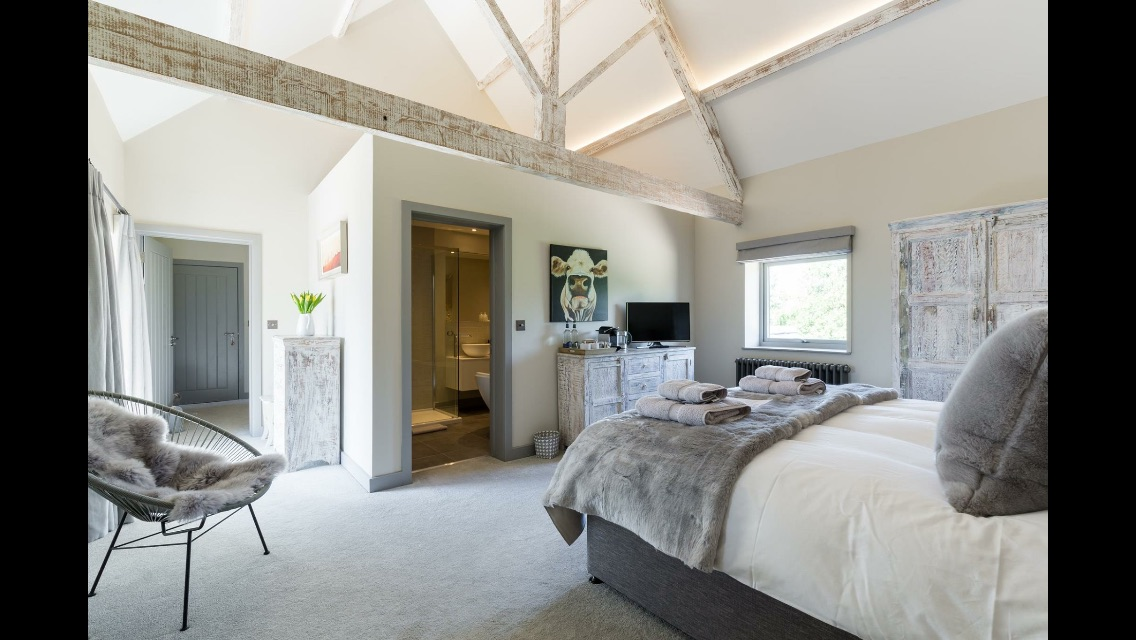
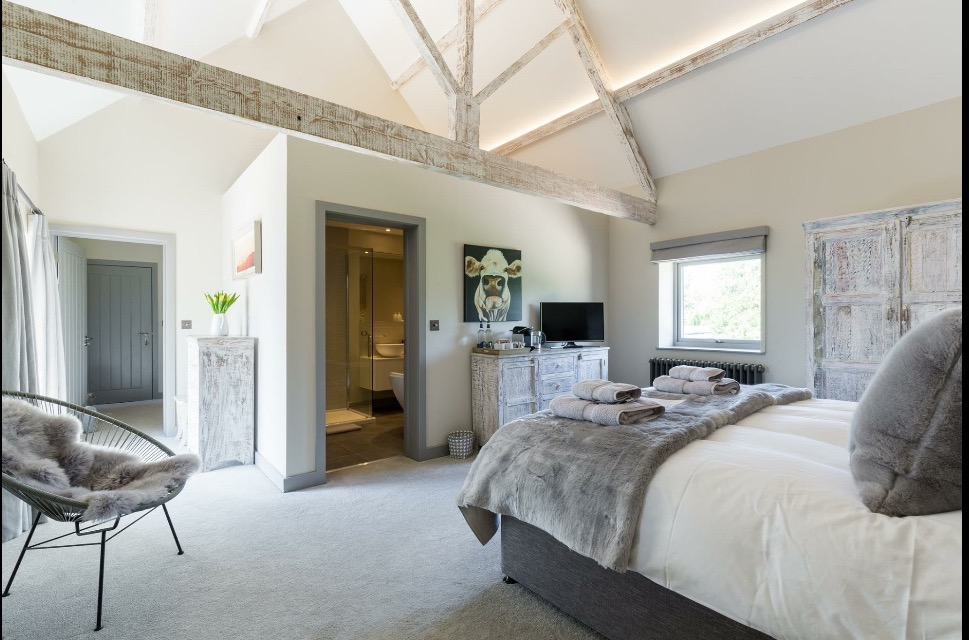
side menu

diff --git a/_sass/base.scss b/_sass/base.scss
@@ -50,6 +50,7 @@ body {
   font-family: $font-body;
   font-size: 16px;
   line-height: 1.7;
+  overflow-x: hidden;
 }
 
 img {
@@ -149,7 +150,7 @@ main {
     fill: $color-teal;
   }
 
-  @media (max-width: $bp-mobile) {
+  @media (max-width: $bp-tablet) {
     display: flex;
     align-items: center;
   }
@@ -236,62 +237,148 @@ main {
     padding-bottom: 0 !important;
   }
 
-  // Mobile: collapse into dropdown
-  @media (max-width: $bp-mobile) {
+  @media (max-width: $bp-tablet) {
     display: none;
-    position: fixed;
-    top: $header-mobile;
-    left: 0;
-    right: 0;
-    height: auto;
-    flex-direction: column;
-    align-items: stretch;
-    justify-content: flex-start;
-    box-shadow: 0 4px 16px rgba(0,0,0,0.15);
-    z-index: 999;
-    padding: 0;
-
-    .nav-left,
-    .nav-right {
-      flex-direction: column;
-      align-items: stretch;
-      gap: 0;
-    }
-
-    .nav-right {
-      border-top: 1px solid rgba(255,255,255,0.15);
-    }
-
-    .nav-social {
-      padding: 14px 24px;
-      border-bottom: 1px solid rgba(255,255,255,0.15);
-      gap: 16px;
-
-      a { border-bottom: none; }
-    }
-
-    .nav-phone {
-      padding: 14px 24px;
-      display: block;
-      font-size: 0.92rem;
-    }
-
-    a {
-      padding: 14px 24px;
-      border-bottom: 1px solid rgba(255,255,255,0.15);
-      font-size: 0.95rem;
-      letter-spacing: 0.06em;
-
-      &:last-child { border-bottom: 0; }
-      &:hover { background: rgba(255,255,255,0.08); }
-    }
   }
 }
 
-// Show nav-bar dropdown when checkbox is checked (mobile)
-.nav-trigger:checked ~ .nav-bar {
-  @media (max-width: $bp-mobile) {
+// ------------------------------------------------------------
+// OVERLAY — dims page content when drawer is open
+// ------------------------------------------------------------
+.nav-overlay {
+  display: none;
+  position: fixed;
+  inset: 0;
+  background: rgba(0, 0, 0, 0.5);
+  z-index: 1001;
+  opacity: 0;
+  transition: opacity 0.3s ease;
+  cursor: pointer;
+
+  @media (max-width: $bp-tablet) {
+    display: block;
+    pointer-events: none;
+  }
+}
+
+.nav-trigger:checked ~ .nav-overlay {
+  opacity: 1;
+  pointer-events: all;
+}
+
+// ------------------------------------------------------------
+// SLIDE-OUT DRAWER
+// ------------------------------------------------------------
+.nav-drawer {
+  display: none;
+  position: fixed;
+  top: 0;
+  left: 0;
+  width: 280px;
+  height: 100%;
+  background: $color-sage;
+  z-index: 1002;
+  transform: translateX(-100%);
+  transition: transform 0.32s cubic-bezier(0.4, 0, 0.2, 1);
+  flex-direction: column;
+  overflow-y: auto;
+
+  @media (max-width: $bp-tablet) {
     display: flex;
+  }
+}
+
+.nav-trigger:checked ~ .nav-drawer {
+  transform: translateX(0);
+}
+
+.drawer-header {
+  display: flex;
+  align-items: center;
+  justify-content: flex-end;
+  padding: 18px 20px;
+  border-bottom: 1px solid rgba(255, 255, 255, 0.15);
+  flex-shrink: 0;
+}
+
+.drawer-close {
+  display: flex;
+  align-items: center;
+  justify-content: center;
+  cursor: pointer;
+  padding: 8px;
+  border-radius: 3px;
+  transition: background 0.2s;
+
+  &:hover { background: rgba(255, 255, 255, 0.12); }
+
+  svg {
+    width: 22px;
+    height: 22px;
+    stroke: $color-white;
+  }
+}
+
+.drawer-nav {
+  display: flex;
+  flex-direction: column;
+  padding: 8px 0;
+  flex: 1;
+
+  a {
+    color: $color-white;
+    font-size: 0.95rem;
+    font-weight: 700;
+    letter-spacing: 0.07em;
+    text-transform: uppercase;
+    padding: 18px 28px;
+    border-bottom: 1px solid rgba(255, 255, 255, 0.1);
+    transition: background 0.2s;
+
+    &:hover,
+    &.active {
+      background: rgba(255, 255, 255, 0.1);
+      color: $color-white;
+    }
+
+    &:last-child { border-bottom: none; }
+  }
+}
+
+.drawer-footer {
+  padding: 24px 28px;
+  border-top: 1px solid rgba(255, 255, 255, 0.15);
+  flex-shrink: 0;
+
+  .drawer-phone {
+    display: block;
+    color: $color-white;
+    font-size: 0.95rem;
+    font-weight: 600;
+    letter-spacing: 0.03em;
+    margin-bottom: 18px;
+    transition: color 0.2s;
+
+    &:hover { color: $color-sand; }
+  }
+
+  .drawer-social {
+    display: flex;
+    gap: 16px;
+
+    a {
+      display: flex;
+      align-items: center;
+
+      svg {
+        width: 20px;
+        height: 20px;
+        fill: rgba(255, 255, 255, 0.75);
+        transition: fill 0.2s;
+      }
+
+      &:hover svg { fill: $color-white; }
+    }
   }
 }
 
@@ -300,9 +387,11 @@ main {
 // ------------------------------------------------------------
 .hero {
   display: grid;
-  grid-template-columns: 1fr 1fr;
+  grid-template-columns: minmax(0, 1fr) minmax(0, 1fr);
   height: calc(100vh - #{$header-height});
   min-height: 520px;
+  width: 100%;
+  overflow: hidden;
 
   @media (max-width: $bp-mobile) {
     grid-template-columns: 1fr;
@@ -318,6 +407,7 @@ main {
     flex-direction: column;
     justify-content: center;
     padding: 60px 56px;
+    min-width: 0;
 
     @media (max-width: $bp-tablet) { padding: 48px 36px; }
     @media (max-width: $bp-mobile) { padding: 48px 24px; order: 1; }
@@ -327,7 +417,8 @@ main {
   &-image {
     background-size: cover;
     background-position: center;
-    background-color: $color-border;
+    background-color: $color-teal;
+    min-width: 0;
 
     @media (max-width: $bp-mobile) { order: 2; }
   }
@@ -343,7 +434,7 @@ main {
   }
 
   h1 {
-    font-size: clamp(2rem, 3.5vw, 3.2rem);
+    font-size: clamp(1.5rem, 2.8vw, 3.2rem);
     color: $color-white;
     font-weight: 700;
     margin-bottom: 1.2rem;

diff --git a/_includes/header.html b/_includes/header.html
@@ -16,10 +16,10 @@
     </div>
   </div>
 
-  <!-- Checkbox — sibling of nav-bar so CSS ~ selector works -->
+  <!-- Checkbox — sibling of nav-bar, overlay, and drawer so CSS ~ selector works -->
   <input type="checkbox" id="nav-trigger" class="nav-trigger" aria-hidden="true">
 
-  <!-- Nav bar — links left, social + phone right -->
+  <!-- Desktop nav bar — hidden on tablet/mobile -->
   <nav class="nav-bar" aria-label="Main navigation">
     <div class="nav-left">
       <a href="{{ '/portfolio/' | relative_url }}" {% if page.url contains '/portfolio' %}class="active"{% endif %}>Portfolio</a>
@@ -47,5 +47,45 @@
       <a class="nav-phone" href="tel:{{ site.phone | remove: ' ' }}">Tel: {{ site.phone }}</a>
     </div>
   </nav>
+
+  <!-- Overlay — clicking anywhere outside the drawer closes it -->
+  <label for="nav-trigger" class="nav-overlay" aria-hidden="true"></label>
+
+  <!-- Slide-out drawer -->
+  <div class="nav-drawer">
+    <div class="drawer-header">
+      <label for="nav-trigger" class="drawer-close" aria-label="Close navigation">
+        <svg viewBox="0 0 24 24" fill="none" xmlns="http://www.w3.org/2000/svg">
+          <path d="M18 6L6 18" stroke-width="2.5" stroke-linecap="round"/>
+          <path d="M6 6L18 18" stroke-width="2.5" stroke-linecap="round"/>
+        </svg>
+      </label>
+    </div>
+    <nav class="drawer-nav">
+      <a href="{{ '/portfolio/' | relative_url }}" {% if page.url contains '/portfolio' %}class="active"{% endif %}>Portfolio</a>
+      <a href="{{ '/about/' | relative_url }}" {% if page.url contains '/about' %}class="active"{% endif %}>About</a>
+      <a href="{{ '/home-staging/' | relative_url }}" {% if page.url contains '/home-staging' %}class="active"{% endif %}>Home Staging</a>
+      <a href="{{ '/contact/' | relative_url }}" {% if page.url contains '/contact' %}class="active"{% endif %}>Contact</a>
+    </nav>
+    <div class="drawer-footer">
+      <a href="tel:{{ site.phone | remove: ' ' }}" class="drawer-phone">{{ site.phone }}</a>
+      <div class="drawer-social">
+        {% if site.facebook_username %}
+        <a href="https://facebook.com/{{ site.facebook_username | cgi_escape | escape }}" target="_blank" rel="noopener" aria-label="Facebook">
+          <svg viewBox="0 0 24 24" xmlns="http://www.w3.org/2000/svg">
+            <path d="M24 12.073c0-6.627-5.373-12-12-12s-12 5.373-12 12c0 5.99 4.388 10.954 10.125 11.854v-8.385H7.078v-3.47h3.047V9.43c0-3.007 1.792-4.669 4.533-4.669 1.312 0 2.686.235 2.686.235v2.953H15.83c-1.491 0-1.956.925-1.956 1.874v2.25h3.328l-.532 3.47h-2.796v8.385C19.612 23.027 24 18.062 24 12.073z"/>
+          </svg>
+        </a>
+        {% endif %}
+        {% if site.instagram_username %}
+        <a href="https://instagram.com/{{ site.instagram_username | cgi_escape | escape }}" target="_blank" rel="noopener" aria-label="Instagram">
+          <svg viewBox="0 0 24 24" xmlns="http://www.w3.org/2000/svg">
+            <path d="M12 2.163c3.204 0 3.584.012 4.85.07 3.252.148 4.771 1.691 4.919 4.919.058 1.265.069 1.645.069 4.849 0 3.205-.012 3.584-.069 4.849-.149 3.225-1.664 4.771-4.919 4.919-1.266.058-1.644.07-4.85.07-3.204 0-3.584-.012-4.849-.07-3.26-.149-4.771-1.699-4.919-4.92-.058-1.265-.07-1.644-.07-4.849 0-3.204.013-3.583.07-4.849.149-3.227 1.664-4.771 4.919-4.919 1.266-.057 1.645-.069 4.849-.069zm0-2.163c-3.259 0-3.667.014-4.947.072-4.358.2-6.78 2.618-6.98 6.98-.059 1.281-.073 1.689-.073 4.948 0 3.259.014 3.668.072 4.948.2 4.358 2.618 6.78 6.98 6.98 1.281.058 1.689.072 4.948.072 3.259 0 3.668-.014 4.948-.072 4.354-.2 6.782-2.618 6.979-6.98.059-1.28.073-1.689.073-4.948 0-3.259-.014-3.667-.072-4.947-.196-4.354-2.617-6.78-6.979-6.98-1.281-.059-1.69-.073-4.949-.073zm0 5.838c-3.403 0-6.162 2.759-6.162 6.162s2.759 6.163 6.162 6.163 6.162-2.759 6.162-6.163c0-3.403-2.759-6.162-6.162-6.162zm0 10.162c-2.209 0-4-1.79-4-4 0-2.209 1.791-4 4-4s4 1.791 4 4c0 2.21-1.791 4-4 4zm6.406-11.845c-.796 0-1.441.645-1.441 1.44s.645 1.44 1.441 1.44c.795 0 1.439-.645 1.439-1.44s-.644-1.44-1.439-1.44z"/>
+          </svg>
+        </a>
+        {% endif %}
+      </div>
+    </div>
+  </div>
 
 </header>
